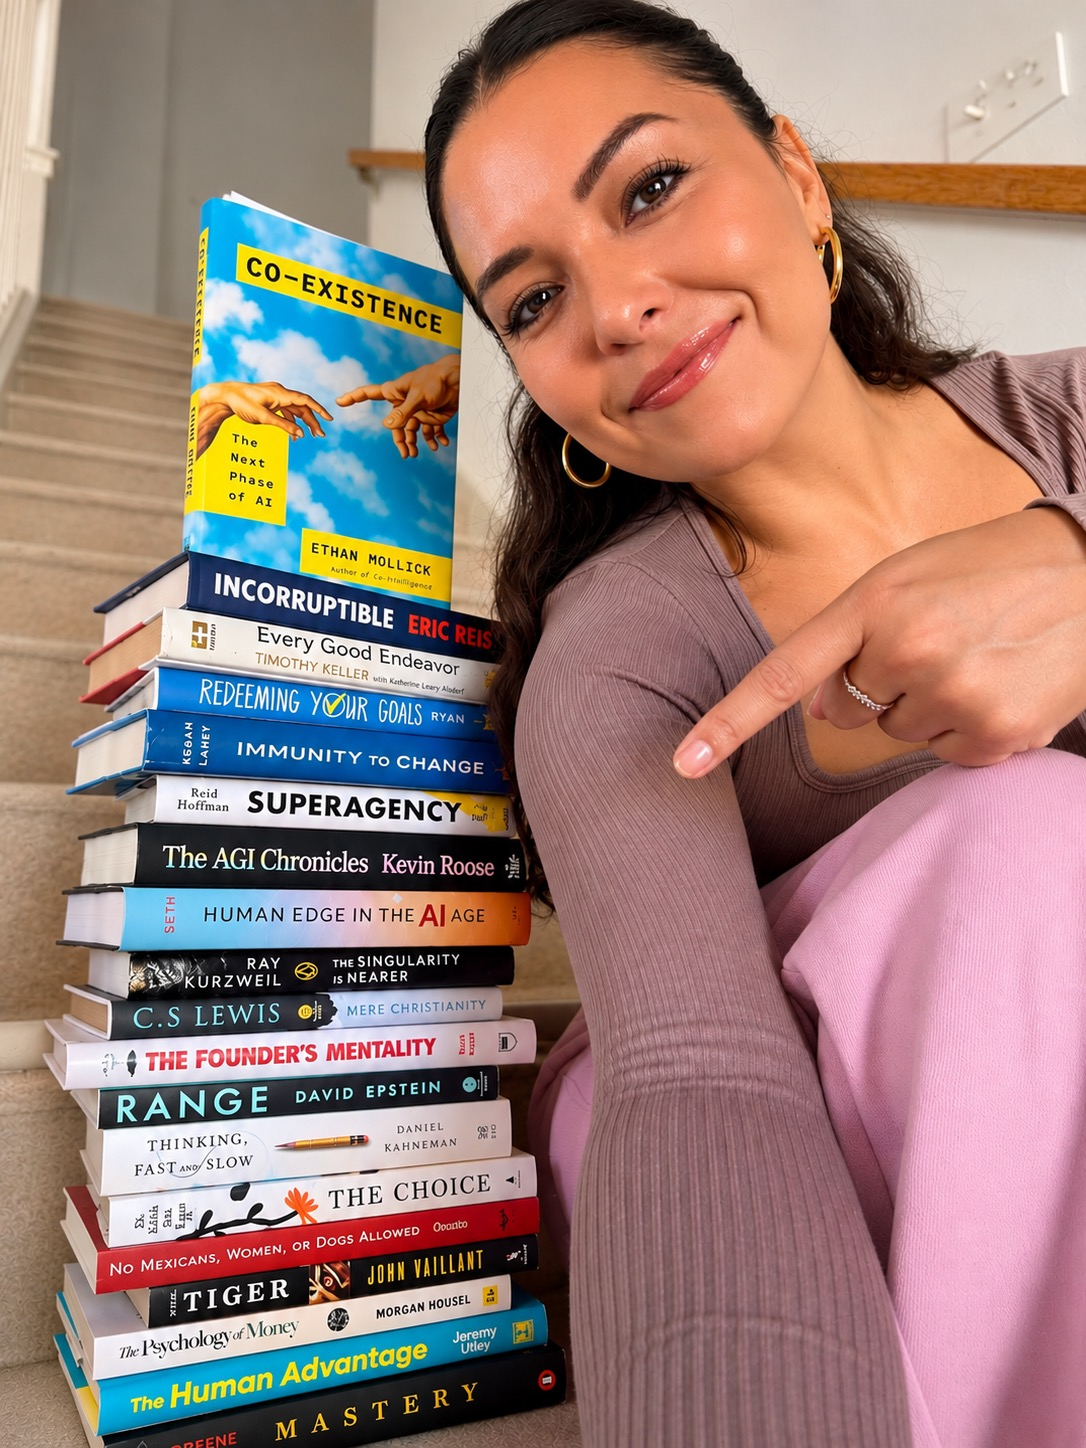
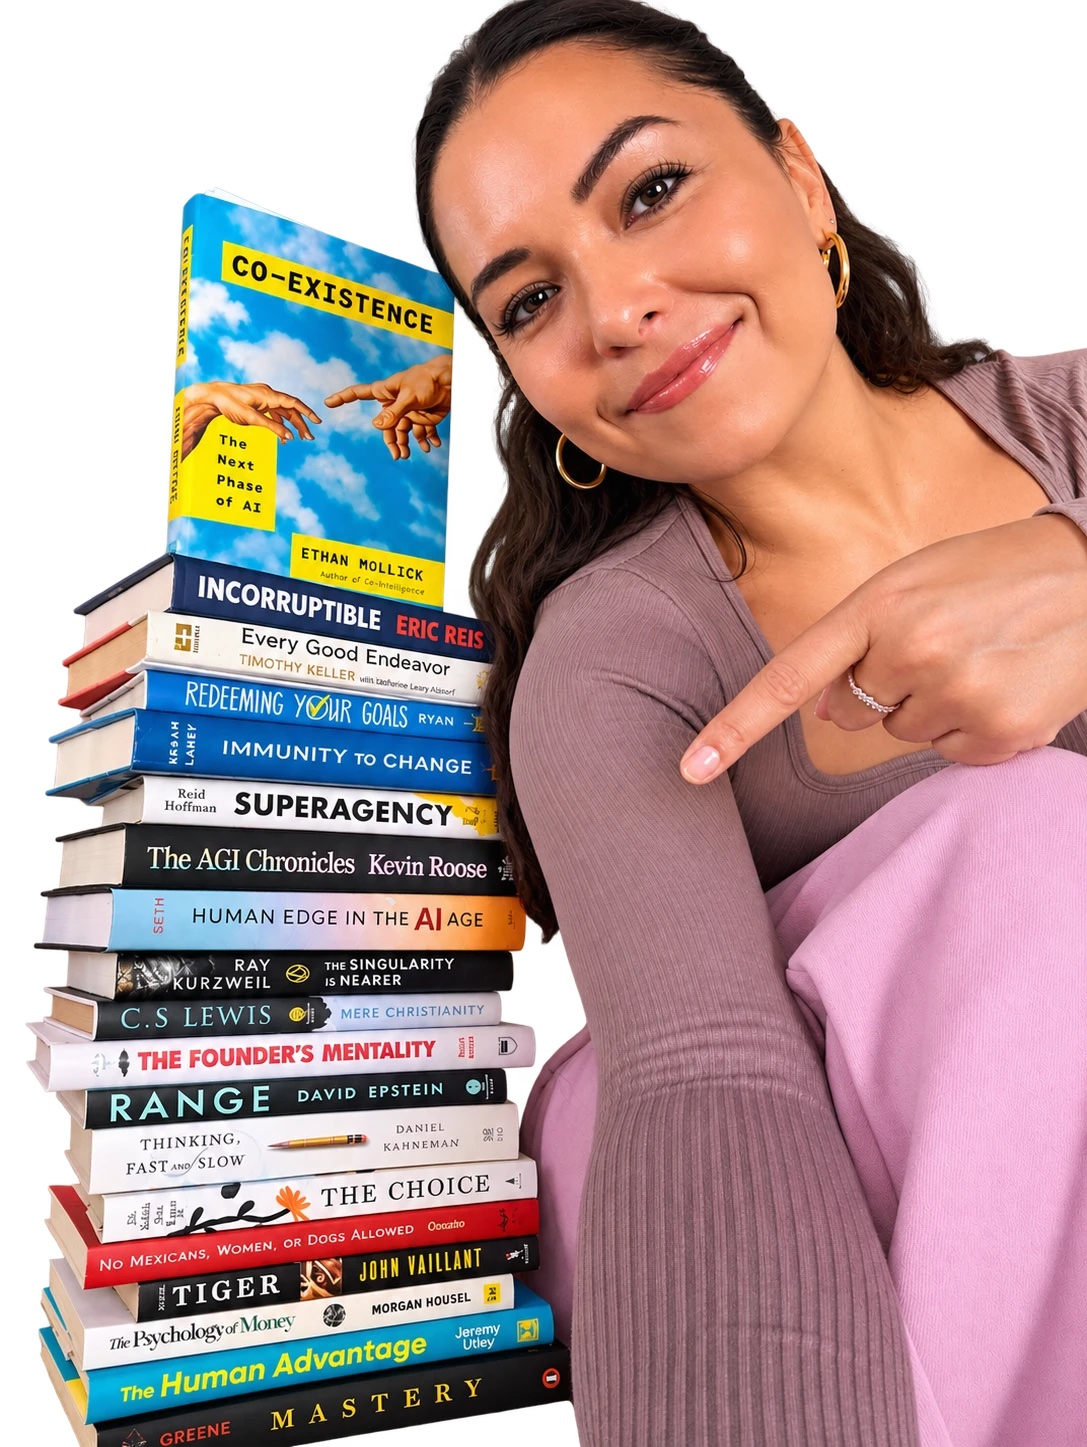
Swap in the cutout book-stack photo for the authors post

diff --git a/es/blog/why-we-still-need-authors.html b/es/blog/why-we-still-need-authors.html
@@ -433,7 +433,7 @@
 
             <p>Tal vez es porque <strong>el conocimiento se está volviendo abundante, pero la perspectiva humana no es intercambiable.</strong></p>
 
-            <img src="../../authors-books.jpg" alt="Ale sentada en unas escaleras alfombradas, sonriendo y señalando una pila alta de libros, con Co-Existence de Ethan Mollick hasta arriba" class="article-image photo portrait" width="1086" height="1448">
+            <img src="../../authors-books.jpg" alt="Ale sonriendo y señalando una pila alta de libros, con Co-Existence de Ethan Mollick hasta arriba" class="article-image photo portrait" width="1087" height="1447">
 
             <p>Y como la IA hace más fácil que nunca convertir una idea a medio cocinar en un manuscrito pulido, sospecho que vamos a ver más libros que probablemente debieron ser artículos. O hasta publicaciones de LinkedIn. 😂</p>
 

diff --git a/blog/why-we-still-need-authors.html b/blog/why-we-still-need-authors.html
@@ -433,7 +433,7 @@
 
             <p>Maybe that's because <strong>knowledge is becoming abundant, but human perspective isn't interchangeable.</strong></p>
 
-            <img src="../authors-books.jpg" alt="Ale sitting on carpeted stairs, smiling and pointing at a tall stack of books, with Ethan Mollick's Co-Existence on top" class="article-image photo portrait" width="1086" height="1448">
+            <img src="../authors-books.jpg" alt="Ale smiling and pointing at a tall stack of books, with Ethan Mollick's Co-Existence on top" class="article-image photo portrait" width="1087" height="1447">
 
             <p>And as AI makes it easier than ever to turn a half-baked idea into a polished manuscript, I suspect we'll see more books that probably should have been articles. Or maybe even LinkedIn posts. 😂</p>
 

diff --git a/es/blog/index.html b/es/blog/index.html
@@ -571,7 +571,7 @@
         <!-- Post 1 - Featured -->
         <a href="why-we-still-need-authors.html" class="blog-card featured has-image">
             <div class="card-accent accent-navy"></div>
-            <img src="../../authors-books.jpg" alt="Ale sentada en unas escaleras alfombradas, sonriendo y señalando una pila alta de libros, con Co-Existence de Ethan Mollick hasta arriba" class="card-image" width="1086" height="1448" loading="lazy">
+            <img src="../../authors-books.jpg" alt="Ale sonriendo y señalando una pila alta de libros, con Co-Existence de Ethan Mollick hasta arriba" class="card-image" width="1087" height="1447" loading="lazy">
             <div class="card-body">
                 <div class="card-tags">
                     <span class="card-tag">IA</span>

diff --git a/blog/index.html b/blog/index.html
@@ -571,7 +571,7 @@
         <!-- Post 1 - Featured -->
         <a href="why-we-still-need-authors.html" class="blog-card featured has-image">
             <div class="card-accent accent-navy"></div>
-            <img src="../authors-books.jpg" alt="Ale sitting on carpeted stairs, smiling and pointing at a tall stack of books, with Ethan Mollick&#x27;s Co-Existence on top" class="card-image" width="1086" height="1448" loading="lazy">
+            <img src="../authors-books.jpg" alt="Ale smiling and pointing at a tall stack of books, with Ethan Mollick&#x27;s Co-Existence on top" class="card-image" width="1087" height="1447" loading="lazy">
             <div class="card-body">
                 <div class="card-tags">
                     <span class="card-tag">AI</span>

diff --git a/es/index.html b/es/index.html
@@ -251,7 +251,7 @@
     <div class="home-posts">
         <!-- home-posts -->
         <a href="blog/why-we-still-need-authors.html" class="home-post featured has-image">
-          <img src="../authors-books.jpg" alt="Ale sentada en unas escaleras alfombradas, sonriendo y señalando una pila alta de libros, con Co-Existence de Ethan Mollick hasta arriba" class="home-post-image" width="1086" height="1448" loading="lazy">
+          <img src="../authors-books.jpg" alt="Ale sonriendo y señalando una pila alta de libros, con Co-Existence de Ethan Mollick hasta arriba" class="home-post-image" width="1087" height="1447" loading="lazy">
           <div class="home-post-body">
             <div class="blog-card-tags">
               <span class="blog-tag">IA</span>

diff --git a/index.html b/index.html
@@ -252,7 +252,7 @@
     <div class="home-posts">
         <!-- home-posts -->
         <a href="blog/why-we-still-need-authors.html" class="home-post featured has-image">
-          <img src="authors-books.jpg" alt="Ale sitting on carpeted stairs, smiling and pointing at a tall stack of books, with Ethan Mollick&#x27;s Co-Existence on top" class="home-post-image" width="1086" height="1448" loading="lazy">
+          <img src="authors-books.jpg" alt="Ale smiling and pointing at a tall stack of books, with Ethan Mollick&#x27;s Co-Existence on top" class="home-post-image" width="1087" height="1447" loading="lazy">
           <div class="home-post-body">
             <div class="blog-card-tags">
               <span class="blog-tag">AI</span>
